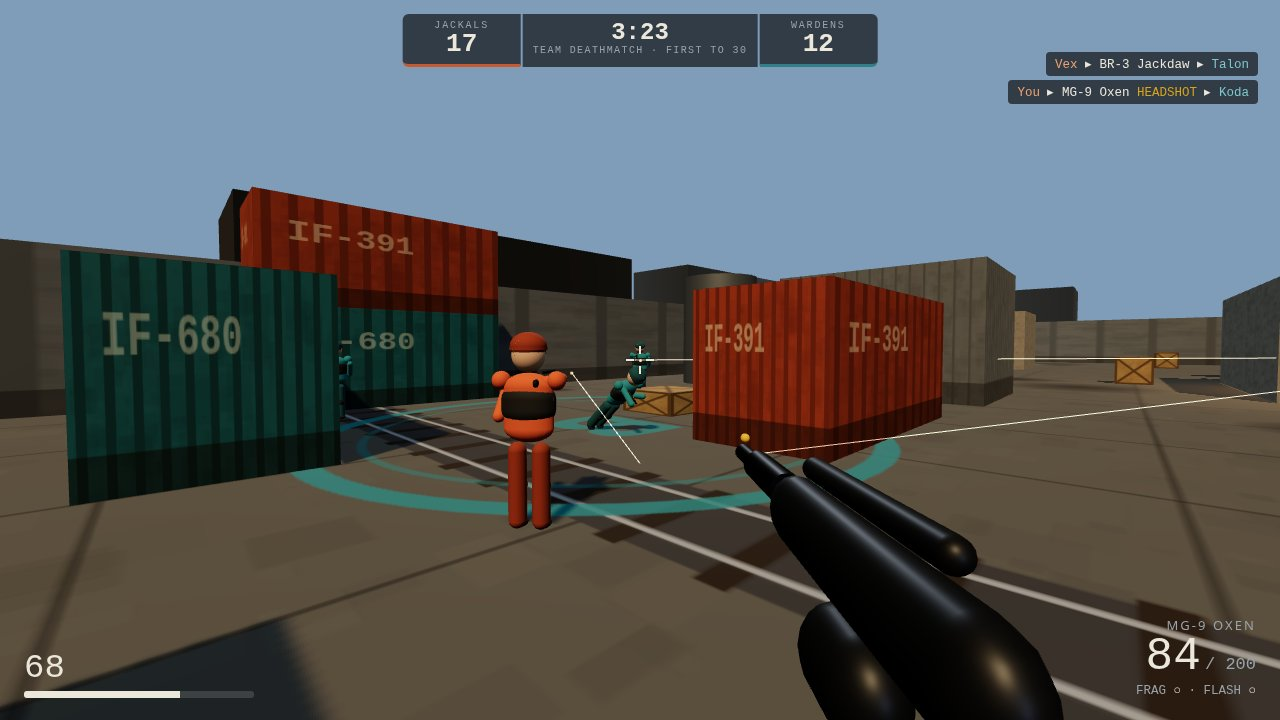
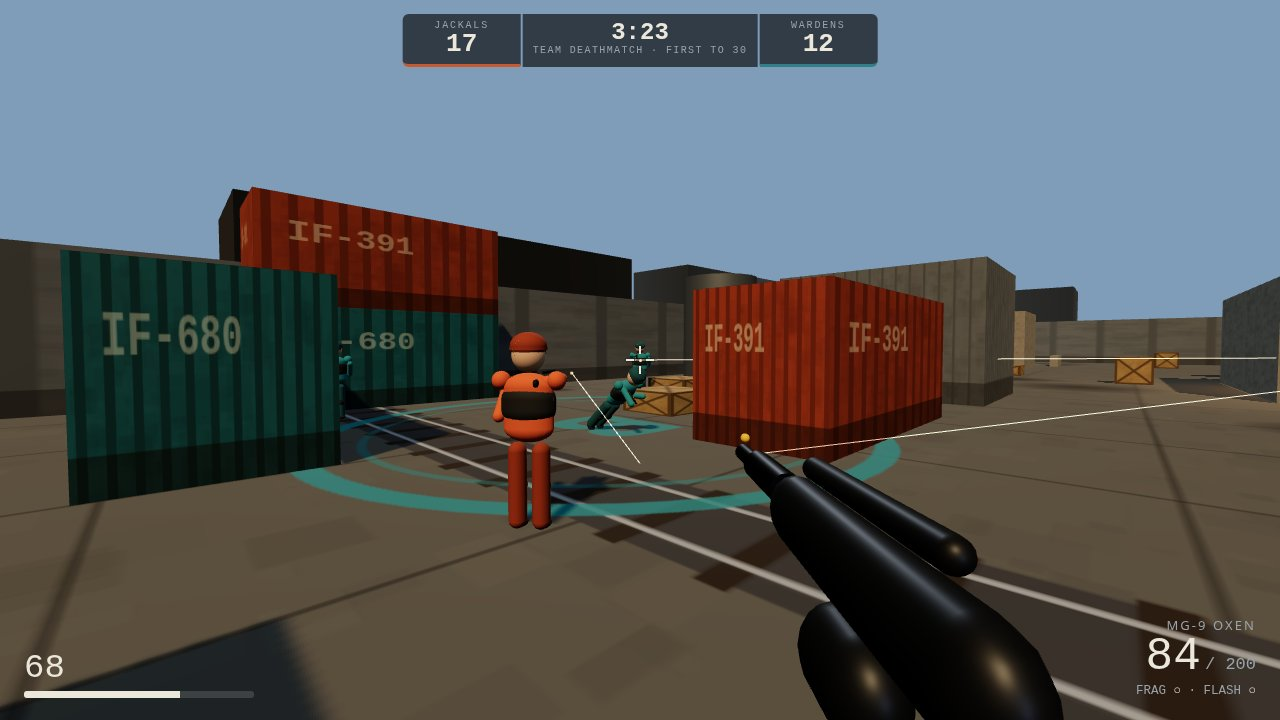
More cover: 12 new obstacles across The Foundry
Crate stacks in the south-mid, north-mid, east-mid, Warden yard and on the
A connector; a teal container in the east yard; low slabs on the B approach,
north lane and south-west lane; concrete barriers in the west yard and
north-mid. Every piece goes through box(), so mesh and collider match.
Placements audited against the waypoint graph, both sites, spawns, the
A-long sightline and the range lane; comment trims in map/bots/rounds keep
the dossier source text under the 160 KiB cap.

Changed region(s): [[0.7812, 0.0611, 1.0, 0.1528], [0.5, 0.5194, 0.5625, 0.55], [0.8125, 0.4889, 0.8438, 0.5194]]

diff --git a/game/src/map.js b/game/src/map.js
@@ -1,7 +1,6 @@
-// The Foundry: one original map. A smelter yard split by a furnace hall (site A,
-// north-west) and a rail yard (site B, south-east), joined by a mid core, two connectors
-// and a roofed tunnel run. Every solid is an AABB collider; the waypoint graph below is
-// how bots read the same space, with a BFS next-hop table built once at load.
+// The Foundry: one original map. Smelter yard split by a furnace hall (site A,
+// north-west) and a rail yard (site B, south-east), joined by a mid core and a
+// roofed tunnel run. Every solid is an AABB collider; bots path on the graph.
 import * as THREE from 'three';
 import { PALETTE } from './palette.js';
 import { makeBox } from './physics.js';
@@ -17,7 +16,7 @@ export const SPAWNS = [
   [[28, -21], [24, -21], [26, -18.5], [29, -18], [23, -18.5]], // Wardens
 ];
 
-// Waypoints: [x, z]. Edges are mutual; routes between any two nodes come from BFS.
+// Waypoints [x, z]; edges mutual; BFS builds the next-hop table.
 const NODES = [
   [-26, 20], [-27, 8], [-27, -4], [-18.8, -6], [-19, -13.5], [-10.5, -13.8], [-16, -20],
   [-9.5, -11], [0, -16], [0, -8], [-8, 0], [0, 1.5], [8, 0], [0, 9], [12, 7], [16, 11],
@@ -31,7 +30,7 @@ const EDGES = [
   [12, 23], [13, 14], [13, 24], [14, 15], [14, 22], [15, 16], [16, 25], [16, 27], [17, 18],
   [17, 27], [18, 19], [18, 22], [19, 20],
 ];
-// Where a bot standing on a hold node should watch: node id -> [x, z] it faces.
+// Hold node id -> [x, z] it faces.
 export const HOLD_FACE = { 26: [-19, -13.5], 6: [-13, -13], 27: [16, 11], 25: [21, 10], 23: [0, 1.5], 21: [-24, -2], 22: [8, 2] };
 export const HOLD_NODES = { A: [26, 6], B: [27, 25], mid: [23, 21, 22] };
 export const SITE_NODES = { A: 4, B: 16 };
@@ -75,7 +74,7 @@ export function createMap(scene, random) {
     lamp: new THREE.MeshBasicMaterial({ color: 0xffe2b0 }),
   };
 
-  // box(): a rendered solid that also collides. visual(): rendered only.
+  // box(): mesh + collider. visual(): mesh only.
   function box(cx, cy, cz, w, h, d, mat) {
     const mesh = new THREE.Mesh(new THREE.BoxGeometry(w, h, d), mat);
     mesh.position.set(cx, cy, cz);
@@ -92,7 +91,7 @@ export function createMap(scene, random) {
     return mesh;
   }
 
-  // Ground: the painted yard sheet over a dark apron.
+  // Ground sheet over a dark apron.
   const ground = new THREE.Mesh(
     new THREE.PlaneGeometry(68, 52),
     new THREE.MeshStandardMaterial({ map: groundTexture(random), roughness: 0.96 }),
@@ -112,7 +111,7 @@ export function createMap(scene, random) {
   box(-34.3, 2, 0, 0.6, 4, 53, mats.siding);
   box(34.3, 2, 0, 0.6, 4, 53, mats.siding);
 
-  // Furnace Hall (site A): east and south walls with door gaps; the rest is perimeter.
+  // Furnace Hall (site A): east/south walls with door gaps.
   box(-13, 1.8, -20, 0.6, 3.6, 10, mats.concrete);
   box(-13, 1.8, -10.8, 0.6, 3.6, 3.6, mats.concrete);
   box(-25.5, 1.8, -9, 11, 3.6, 0.6, mats.concrete);
@@ -124,10 +123,10 @@ export function createMap(scene, random) {
   const chimney = visual(new THREE.Mesh(new THREE.CylinderGeometry(0.9, 1.1, 7, 12), mats.metalDark));
   chimney.position.set(-26, 9, -20);
 
-  // Warehouse block between mid and the A connector.
+  // Warehouse block, mid to A connector.
   box(-9.5, 2.25, -16, 5, 4.5, 6, mats.siding);
 
-  // Mid core: four walls, doors west and east, the core machine inside.
+  // Mid core: doors west and east, core machine inside.
   box(-5, 1.8, -3.1, 0.6, 3.6, 3.8, mats.concrete);
   box(-5, 1.8, 3.1, 0.6, 3.6, 3.8, mats.concrete);
   box(5, 1.8, -3.1, 0.6, 3.6, 3.8, mats.concrete);
@@ -138,12 +137,12 @@ export function createMap(scene, random) {
   box(0, 3.85, -3, 11, 0.35, 0.5, mats.metalDark);
   box(0, 3.85, 3, 11, 0.35, 0.5, mats.metalDark);
 
-  // Standalone blocks that make the lanes.
+  // Lane blocks.
   box(9.5, 2, 14, 5, 4, 6, mats.siding);
   box(17, 2, -19, 6, 4, 6, mats.concrete);
   box(-17, 2, 16, 6, 4, 6, mats.concrete);
 
-  // Tanks: round to look at, square to collide with.
+  // Tanks: round mesh, square collider.
   for (const [tx, tz] of [[-8, -22], [10, 21]]) {
     const tank = visual(new THREE.Mesh(new THREE.CylinderGeometry(1.6, 1.6, 4.6, 16), mats.metal));
     tank.position.set(tx, 2.3, tz);
@@ -151,31 +150,40 @@ export function createMap(scene, random) {
     colliders[colliders.length - 1] = makeBox(tx, 2.3, tz, 3.2, 4.6, 3.2);
   }
 
-  // The tunnel run: inner wall with two entries and a low roof.
+  // Tunnel run: inner wall, two entries, low roof.
   box(29.8, 1.8, -6.5, 0.6, 3.6, 3, mats.concrete);
   box(29.8, 1.8, 1.5, 0.6, 3.6, 7, mats.concrete);
   box(32, 2.95, 1, 4.8, 0.5, 19, mats.metalDark);
 
-  // Rail Yard containers (site B).
+  // Site B containers.
   box(18, 1.3, 12.5, 6, 2.6, 2.4, mats.containerRust);
   box(27, 1.3, 19, 2.4, 2.6, 6, mats.containerTeal);
   box(23, 1.3, 23.5, 6, 2.6, 2.4, mats.containerTeal);
   box(23, 3.9, 23.5, 6, 2.6, 2.4, mats.containerRust);
 
-  // Crates: cubes you fight around, doubles you cannot see over, low slabs to crouch behind.
+  // Crates: singles, doubles you cannot see over, low slabs to crouch behind.
   const crate1 = [[-8, -12], [8, -2], [-2, 8], [12, 3.5], [14.5, 13], [-24, 6], [-6, 18], [24, -8], [2, -13], [-29, -11], [-15.5, -19]];
   for (const [x, z] of crate1) box(x, 0.575, z, 1.15, 1.15, 1.15, mats.crate);
   const crate2 = [[-4, -11], [20, -12], [-11, 4], [25, 5]];
   for (const [x, z] of crate2) { box(x, 0.575, z, 1.15, 1.15, 1.15, mats.crate); box(x, 1.725, z, 1.15, 1.15, 1.15, mats.crate); }
   const low = [[0, -9.5], [18.5, 16.5], [-20.5, -11], [10, -6]];
   for (const [x, z] of low) box(x, 0.275, z, 1.6, 0.55, 1.6, mats.crate);
-  // Half walls at the mid doors and the A-long lane.
+  // Half walls.
   box(-8, 0.575, 3.5, 0.5, 1.15, 3, mats.concrete);
   box(8, 0.575, -3.5, 0.5, 1.15, 3, mats.concrete);
   box(0, 0.575, 12.5, 3, 1.15, 0.5, mats.concrete);
   box(-22, 0.575, 2, 3, 1.15, 0.5, mats.concrete);
 
-  // Lamp poles with emissive heads.
+  // Extra cover: [x, z, kind] 0 crate, 1 stack, 2 low slab, 3 barrier, 4 container.
+  const extra = [[13, -13, 1], [-4, 16, 1], [16, -8, 1], [24, -13, 1], [-16, -1, 1], [26, 2, 0], [15, 19, 2], [-6, 13, 2], [-14, -22, 2], [-23, 12, 3], [4, 15, 3], [21, 3, 4]];
+  for (const [x, z, k] of extra) {
+    if (k < 2) { box(x, .575, z, 1.15, 1.15, 1.15, mats.crate); if (k) box(x, 1.725, z, 1.15, 1.15, 1.15, mats.crate); }
+    else if (k === 2) box(x, .275, z, 1.6, .55, 1.6, mats.crate);
+    else if (k === 3) box(x, .425, z, 3, .85, .5, mats.concrete);
+    else box(x, 1.3, z, 6, 2.6, 2.4, mats.containerTeal);
+  }
+
+  // Lamp poles.
   for (const [x, z] of [[-12, -2], [12, -12], [-2, 20], [20, -2]]) {
     const pole = visual(new THREE.Mesh(new THREE.CylinderGeometry(0.07, 0.09, 4.4, 8), mats.metalDark));
     pole.position.set(x, 2.2, z);
@@ -185,7 +193,7 @@ export function createMap(scene, random) {
     colliders.push(makeBox(x, 2.2, z, 0.24, 4.4, 0.24));
   }
 
-  // Skyline: the rest of the works, silhouetted beyond the fence.
+  // Skyline beyond the fence.
   const skyline = [[-44, -20, 10, 12], [40, -30, 12, 14], [0, -44, 30, 10], [-46, 16, 8, 8], [44, 24, 10, 10], [12, 42, 26, 9], [-20, 44, 18, 10]];
   for (const [x, z, w, h] of skyline) {
     const m = new THREE.Mesh(new THREE.BoxGeometry(w, h, 8), mats.dark);
@@ -201,7 +209,7 @@ export function createMap(scene, random) {
     scene.add(beacon);
   }
 
-  // Light: low warm sun with shadows, cool sky fill, and three working lights.
+  // Light: warm sun with shadows, cool fill, three point lights.
   const hemi = new THREE.HemisphereLight(0xbcd3e6, 0x5a5040, 1.1);
   scene.add(hemi);
   const sun = new THREE.DirectionalLight(PALETTE.sun, 2.7);
@@ -216,7 +224,7 @@ export function createMap(scene, random) {
   sun.shadow.camera.far = 130;
   sun.shadow.bias = -0.0006;
   scene.add(sun);
-  // A shadowless fill keeps unlit faces readable.
+  // Shadowless fill.
   const fill = new THREE.DirectionalLight(0xdfeaf5, 0.5);
   fill.position.set(-30, 24, 26);
   scene.add(fill);

diff --git a/game/src/bots.js b/game/src/bots.js
@@ -1,8 +1,7 @@
-// Bot brains. A brain writes intent onto its actor — move direction, aim, fire, crouch,
-// channel — and the shared actuation in main.js carries it out, as the player's controller
-// does from input. Brains think in staggered ticks: perceive (vision cones, line of sight,
-// hearing), then act: advance the waypoint graph, hold a node, engage with burst
-// discipline, plant or defuse when the round asks, rotate when the bomb goes down.
+// Bot brains. A brain writes intent onto its actor — move, aim, fire, crouch,
+// channel — and main.js actuates it, as the player's controller does from input.
+// In staggered ticks brains perceive (vision cones, line of sight, hearing), then
+// act: advance the waypoint graph, hold, engage, plant/defuse, rotate.
 import { lineOfSight } from './physics.js';
 import { eyeHeight } from './actors.js';
 import { WEAPONS } from './weapons.js';

diff --git a/game/src/rounds.js b/game/src/rounds.js
@@ -1,8 +1,7 @@
-// Rounds: the matches. One state machine owns the phase, the clocks, the bomb, the
-// economies and the scores for every mode — defusal's rounds, the deathmatches' respawns
-// and win lines, the range's quiet live phase. It never touches the DOM or three.js: it
-// pushes events onto a queue main.js drains into the HUD, audio and effects, and reads
-// intent the player controller and bot brains write onto each actor.
+// Rounds: the matches. One state machine owns the phase, clocks, bomb, economies
+// and scores for every mode. It never touches the DOM or three.js: it pushes events
+// onto a queue main.js drains into the HUD, audio and effects, and reads the intent
+// the player controller and bot brains write onto each actor.
 import { WEAPONS, GRENADES, ARMOR, createLoadout } from './weapons.js';
 import { HOLD_NODES, SITE_NODES, SITES, SPAWNS } from './map.js';
 
